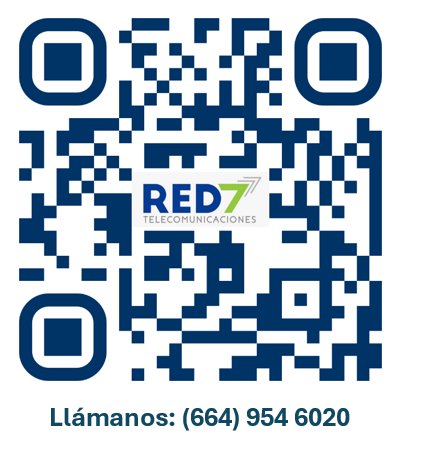
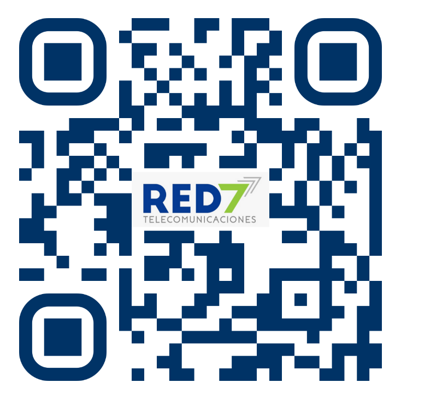
feat: QR adecuados a Niimbot

diff --git a/app/page.jsx b/app/page.jsx
@@ -19,6 +19,39 @@ const safeFilename = (value) => {
 // Output size for NIIMBOT B1 labels (50x30mm, horizontal). Aspect ratio must be 5:3.
 const LABEL_OUT_PX = { w: 1000, h: 600 };
 
+// NIIMBOT app may rotate the label “sheet” without rotating the imported image.
+// To keep the content aligned with the horizontal label, we render in portrait base
+// (same pixels swapped) and rotate the final bitmap 90° clockwise.
+const ROTATE_CONTENT_FOR_HORIZONTAL_LABEL = true;
+
+const rotateCanvas90CWTo = (srcCanvas, outW, outH) => {
+  const out = document.createElement("canvas");
+  out.width = outW;
+  out.height = outH;
+  const ctx = out.getContext("2d");
+  if (!ctx) return null;
+
+  // Map src (w x h) -> out (h x w) via 90° clockwise rotation.
+  ctx.translate(outW, 0);
+  ctx.rotate(Math.PI / 2);
+  ctx.drawImage(srcCanvas, 0, 0);
+  return out;
+};
+
+const makeStickerCanvas = () => {
+  if (!ROTATE_CONTENT_FOR_HORIZONTAL_LABEL) {
+    const c = document.createElement("canvas");
+    c.width = LABEL_OUT_PX.w;
+    c.height = LABEL_OUT_PX.h;
+    return { canvas: c, w: LABEL_OUT_PX.w, h: LABEL_OUT_PX.h };
+  }
+  // portrait base that rotates into 50x30 horizontal output
+  const c = document.createElement("canvas");
+  c.width = LABEL_OUT_PX.h;
+  c.height = LABEL_OUT_PX.w;
+  return { canvas: c, w: LABEL_OUT_PX.h, h: LABEL_OUT_PX.w };
+};
+
 const loadImage = (src) =>
   new Promise((resolve, reject) => {
     const img = new Image();
@@ -118,11 +151,8 @@ export default function Page() {
   };
 
   const buildWifiStickerPng = async (item, qrDataUrl) => {
-    const labelW = LABEL_OUT_PX.w;
-    const labelH = LABEL_OUT_PX.h;
-    const canvas = document.createElement("canvas");
-    canvas.width = labelW;
-    canvas.height = labelH;
+    // Render on a base canvas; rotate to final 50x30 horizontal if needed.
+    const { canvas, w: labelW, h: labelH } = makeStickerCanvas();
     const padX = 55;
     const padTop = 55;
     const padBottom = 55;
@@ -292,7 +322,9 @@ export default function Page() {
     ctx.drawImage(wifiImg, Math.round(centerX - wifiW / 2), footerY, wifiW, wifiH);
     ctx.globalAlpha = 1;
 
-    return canvas.toDataURL("image/png");
+    if (!ROTATE_CONTENT_FOR_HORIZONTAL_LABEL) return canvas.toDataURL("image/png");
+    const out = rotateCanvas90CWTo(canvas, LABEL_OUT_PX.w, LABEL_OUT_PX.h);
+    return (out || canvas).toDataURL("image/png");
   };
 
   const buildAttentionStickerPng = async () => {
@@ -302,7 +334,8 @@ export default function Page() {
     const padY = 40;
     const gap = 18;
     const attentionBandW = 260;
-    const contactLabel = "Contáctanos";
+    const contactLine1 = "Llámanos:";
+    const contactLine2 = "(664) 954 6020";
 
     const canvas = document.createElement("canvas");
     canvas.width = labelW;
@@ -385,12 +418,13 @@ export default function Page() {
 
     x += qrSize + gap;
 
-    // 3) Contáctanos (vertical)
-    drawVerticalSingle({
+    // 3) Llámanos (vertical)
+    drawVerticalTwoLine({
       bandCenterX: x + contactBandW / 2,
       bandCenterY: labelH / 2,
       maxLen: innerH,
-      text: contactLabel,
+      t1: contactLine1,
+      t2: contactLine2,
     });
 
     return canvas.toDataURL("image/png");
